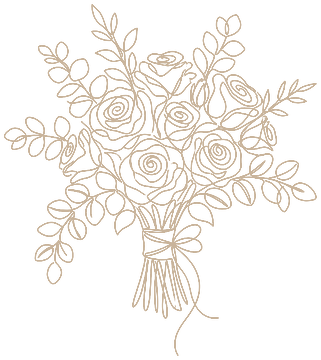
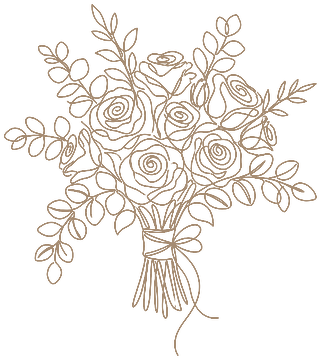
The Day: deeper shared tone for the drawings, carriage left pale

diff --git a/the-day.html b/the-day.html
@@ -9,7 +9,7 @@
 <link rel="preconnect" href="https://fonts.googleapis.com" />
 <link rel="preconnect" href="https://fonts.gstatic.com" crossorigin />
 <link href="https://fonts.googleapis.com/css2?family=Cormorant+Garamond:ital,wght@0,400;0,500;0,600;1,400&family=Jost:wght@300;400;500;600;700&family=Pinyon+Script&family=Playfair+Display:ital,wght@0,500;0,600;1,500&family=Bodoni+Moda:ital,wght@0,500;0,600;1,500&family=Cinzel:wght@500;600&family=Marcellus&family=Prata&display=swap" rel="stylesheet" />
-<link rel="stylesheet" href="style.css?v=53" />
+<link rel="stylesheet" href="style.css?v=54" />
 </head>
 <body>
 
@@ -39,22 +39,22 @@
       <hr class="divider" aria-hidden="true" />
     </div>
     <div class="timeline">
-      <div class="tl-item tl-item--art"><div class="tl-text"><div class="tl-time">11:45 am</div><div class="tl-label">Guests Arrive</div><div class="tl-note">Welcome, and a &lsquo;getting comfy&rsquo; half hour</div></div><div class="tl-art tl-art--r"><img src="Photos/itinerary/guests.png?v=11" alt="" loading="lazy"></div></div>
-      <div class="tl-item tl-item--art"><div class="tl-art tl-art--l"><img src="Photos/itinerary/seated.png?v=11" alt="" loading="lazy"></div><div class="tl-text"><div class="tl-time">12:15 pm</div><div class="tl-label">Please Be Seated</div><div class="tl-note">Guests are seated while the registrar speaks with the couple</div></div></div>
-      <div class="tl-item tl-item--art"><div class="tl-text"><div class="tl-time">12:30 pm</div><div class="tl-label">The Ceremony</div><div class="tl-note">The main event &ndash; it&rsquo;s time to make it official!</div></div><div class="tl-art tl-art--r"><img src="Photos/itinerary/ceremony.png?v=11" alt="" loading="lazy"></div></div>
-      <div class="tl-item tl-item--art"><div class="tl-art tl-art--l"><img src="Photos/itinerary/camera.png?v=11" alt="" loading="lazy"></div><div class="tl-text"><div class="tl-time">1:00 pm</div><div class="tl-label">Drinks Reception &amp; Photographs</div><div class="tl-note"></div></div></div>
-      <div class="tl-item tl-item--art"><div class="tl-text"><div class="tl-time">1:15 pm</div><div class="tl-label">Canap&eacute;s</div><div class="tl-note">Served during the drinks reception</div></div><div class="tl-art tl-art--r"><img src="Photos/itinerary/canapes.png?v=11" alt="" loading="lazy"></div></div>
-      <div class="tl-item tl-item--art"><div class="tl-art tl-art--l"><img src="Photos/itinerary/tower.png?v=11" alt="" loading="lazy"></div><div class="tl-text"><div class="tl-time">2:30 pm</div><div class="tl-label">Into the Ballroom</div><div class="tl-note">Guests are moved through to the Ballroom</div></div></div>
-      <div class="tl-item tl-item--art"><div class="tl-text"><div class="tl-time">2:45 pm</div><div class="tl-label">The Happy Couple</div><div class="tl-note">The Master of Ceremonies announces Jessica &amp; Matthew</div></div><div class="tl-art tl-art--r"><img src="Photos/itinerary/couple.png?v=11" alt="" loading="lazy"></div></div>
-      <div class="tl-item tl-item--art"><div class="tl-art tl-art--l"><img src="Photos/itinerary/toast.png?v=11" alt="" loading="lazy"></div><div class="tl-text"><div class="tl-time">3:00 pm</div><div class="tl-label">Speeches &amp; Toast</div><div class="tl-note"></div></div></div>
-      <div class="tl-item tl-item--art"><div class="tl-text"><div class="tl-time">3:30 pm</div><div class="tl-label">Wedding Breakfast</div><div class="tl-note">The wedding breakfast is served</div></div><div class="tl-art tl-art--r"><img src="Photos/itinerary/breakfast.png?v=11" alt="" loading="lazy"></div></div>
-      <div class="tl-item tl-item--art"><div class="tl-art tl-art--l"><img src="Photos/itinerary/cocktail.png?v=11" alt="" loading="lazy"></div><div class="tl-text"><div class="tl-time">5:30 pm</div><div class="tl-label">Refreshment Hour</div><div class="tl-note">An hour of refreshment time before we meet back for the evening</div></div></div>
-      <div class="tl-item tl-item--art"><div class="tl-text"><div class="tl-time">6:30 pm</div><div class="tl-label">Evening Guests Arrive</div><div class="tl-note">Evening guests arrive and the cake is cut</div></div><div class="tl-art tl-art--r"><img src="Photos/itinerary/cake.png?v=11" alt="" loading="lazy"></div></div>
-      <div class="tl-item tl-item--art"><div class="tl-art tl-art--l"><img src="Photos/itinerary/dance.png?v=11" alt="" loading="lazy"></div><div class="tl-text"><div class="tl-time">7:00 pm</div><div class="tl-label">First Dance</div><div class="tl-note"></div></div></div>
-      <div class="tl-item tl-item--art"><div class="tl-text"><div class="tl-time">8:30 pm</div><div class="tl-label">Evening Food</div><div class="tl-note">Evening food is served</div></div><div class="tl-art tl-art--r"><img src="Photos/itinerary/dinner.png?v=11" alt="" loading="lazy"></div></div>
-      <div class="tl-item tl-item--art"><div class="tl-art tl-art--l"><img src="Photos/itinerary/taxi.png?v=11" alt="" loading="lazy"></div><div class="tl-text"><div class="tl-time">12:00 am</div><div class="tl-label">Farewell</div><div class="tl-note">The bar closes, the music finishes and guests depart</div></div></div>
+      <div class="tl-item tl-item--art"><div class="tl-text"><div class="tl-time">11:45 am</div><div class="tl-label">Guests Arrive</div><div class="tl-note">Welcome, and a &lsquo;getting comfy&rsquo; half hour</div></div><div class="tl-art tl-art--r"><img src="Photos/itinerary/guests.png?v=12" alt="" loading="lazy"></div></div>
+      <div class="tl-item tl-item--art"><div class="tl-art tl-art--l"><img src="Photos/itinerary/seated.png?v=12" alt="" loading="lazy"></div><div class="tl-text"><div class="tl-time">12:15 pm</div><div class="tl-label">Please Be Seated</div><div class="tl-note">Guests are seated while the registrar speaks with the couple</div></div></div>
+      <div class="tl-item tl-item--art"><div class="tl-text"><div class="tl-time">12:30 pm</div><div class="tl-label">The Ceremony</div><div class="tl-note">The main event &ndash; it&rsquo;s time to make it official!</div></div><div class="tl-art tl-art--r"><img src="Photos/itinerary/ceremony.png?v=12" alt="" loading="lazy"></div></div>
+      <div class="tl-item tl-item--art"><div class="tl-art tl-art--l"><img src="Photos/itinerary/camera.png?v=12" alt="" loading="lazy"></div><div class="tl-text"><div class="tl-time">1:00 pm</div><div class="tl-label">Drinks Reception &amp; Photographs</div><div class="tl-note"></div></div></div>
+      <div class="tl-item tl-item--art"><div class="tl-text"><div class="tl-time">1:15 pm</div><div class="tl-label">Canap&eacute;s</div><div class="tl-note">Served during the drinks reception</div></div><div class="tl-art tl-art--r"><img src="Photos/itinerary/canapes.png?v=12" alt="" loading="lazy"></div></div>
+      <div class="tl-item tl-item--art"><div class="tl-art tl-art--l"><img src="Photos/itinerary/tower.png?v=12" alt="" loading="lazy"></div><div class="tl-text"><div class="tl-time">2:30 pm</div><div class="tl-label">Into the Ballroom</div><div class="tl-note">Guests are moved through to the Ballroom</div></div></div>
+      <div class="tl-item tl-item--art"><div class="tl-text"><div class="tl-time">2:45 pm</div><div class="tl-label">The Happy Couple</div><div class="tl-note">The Master of Ceremonies announces Jessica &amp; Matthew</div></div><div class="tl-art tl-art--r"><img src="Photos/itinerary/couple.png?v=12" alt="" loading="lazy"></div></div>
+      <div class="tl-item tl-item--art"><div class="tl-art tl-art--l"><img src="Photos/itinerary/toast.png?v=12" alt="" loading="lazy"></div><div class="tl-text"><div class="tl-time">3:00 pm</div><div class="tl-label">Speeches &amp; Toast</div><div class="tl-note"></div></div></div>
+      <div class="tl-item tl-item--art"><div class="tl-text"><div class="tl-time">3:30 pm</div><div class="tl-label">Wedding Breakfast</div><div class="tl-note">The wedding breakfast is served</div></div><div class="tl-art tl-art--r"><img src="Photos/itinerary/breakfast.png?v=12" alt="" loading="lazy"></div></div>
+      <div class="tl-item tl-item--art"><div class="tl-art tl-art--l"><img src="Photos/itinerary/cocktail.png?v=12" alt="" loading="lazy"></div><div class="tl-text"><div class="tl-time">5:30 pm</div><div class="tl-label">Refreshment Hour</div><div class="tl-note">An hour of refreshment time before we meet back for the evening</div></div></div>
+      <div class="tl-item tl-item--art"><div class="tl-text"><div class="tl-time">6:30 pm</div><div class="tl-label">Evening Guests Arrive</div><div class="tl-note">Evening guests arrive and the cake is cut</div></div><div class="tl-art tl-art--r"><img src="Photos/itinerary/cake.png?v=12" alt="" loading="lazy"></div></div>
+      <div class="tl-item tl-item--art"><div class="tl-art tl-art--l"><img src="Photos/itinerary/dance.png?v=12" alt="" loading="lazy"></div><div class="tl-text"><div class="tl-time">7:00 pm</div><div class="tl-label">First Dance</div><div class="tl-note"></div></div></div>
+      <div class="tl-item tl-item--art"><div class="tl-text"><div class="tl-time">8:30 pm</div><div class="tl-label">Evening Food</div><div class="tl-note">Evening food is served</div></div><div class="tl-art tl-art--r"><img src="Photos/itinerary/dinner.png?v=12" alt="" loading="lazy"></div></div>
+      <div class="tl-item tl-item--art"><div class="tl-art tl-art--l"><img src="Photos/itinerary/taxi.png?v=12" alt="" loading="lazy"></div><div class="tl-text"><div class="tl-time">12:00 am</div><div class="tl-label">Farewell</div><div class="tl-note">The bar closes, the music finishes and guests depart</div></div></div>
     </div>
-    <div class="day-end" aria-hidden="true"><img src="Photos/itinerary/farewell.png?v=11" alt="" loading="lazy"></div>
+    <div class="day-end" aria-hidden="true"><img src="Photos/itinerary/farewell.png?v=12" alt="" loading="lazy"></div>
   </section>
 
   </main>

diff --git a/index.html b/index.html
@@ -19,7 +19,7 @@
 <link rel="preconnect" href="https://fonts.googleapis.com" />
 <link rel="preconnect" href="https://fonts.gstatic.com" crossorigin />
 <link href="https://fonts.googleapis.com/css2?family=Cormorant+Garamond:ital,wght@0,400;0,500;0,600;1,400&family=Jost:wght@300;400;500;600;700&family=Pinyon+Script&family=Playfair+Display:ital,wght@0,500;0,600;1,500&family=Bodoni+Moda:ital,wght@0,500;0,600;1,500&family=Cinzel:wght@500;600&family=Marcellus&family=Prata&display=swap" rel="stylesheet" />
-<link rel="stylesheet" href="style.css?v=53" />
+<link rel="stylesheet" href="style.css?v=54" />
 </head>
 <body>
 

diff --git a/faq.html b/faq.html
@@ -9,7 +9,7 @@
 <link rel="preconnect" href="https://fonts.googleapis.com" />
 <link rel="preconnect" href="https://fonts.gstatic.com" crossorigin />
 <link href="https://fonts.googleapis.com/css2?family=Cormorant+Garamond:ital,wght@0,400;0,500;0,600;1,400&family=Jost:wght@300;400;500;600;700&family=Pinyon+Script&family=Playfair+Display:ital,wght@0,500;0,600;1,500&family=Bodoni+Moda:ital,wght@0,500;0,600;1,500&family=Cinzel:wght@500;600&family=Marcellus&family=Prata&display=swap" rel="stylesheet" />
-<link rel="stylesheet" href="style.css?v=53" />
+<link rel="stylesheet" href="style.css?v=54" />
 </head>
 <body>
 

diff --git a/registry.html b/registry.html
@@ -9,7 +9,7 @@
 <link rel="preconnect" href="https://fonts.googleapis.com" />
 <link rel="preconnect" href="https://fonts.gstatic.com" crossorigin />
 <link href="https://fonts.googleapis.com/css2?family=Cormorant+Garamond:ital,wght@0,400;0,500;0,600;1,400&family=Jost:wght@300;400;500;600;700&family=Pinyon+Script&family=Playfair+Display:ital,wght@0,500;0,600;1,500&family=Bodoni+Moda:ital,wght@0,500;0,600;1,500&family=Cinzel:wght@500;600&family=Marcellus&family=Prata&display=swap" rel="stylesheet" />
-<link rel="stylesheet" href="style.css?v=53" />
+<link rel="stylesheet" href="style.css?v=54" />
 </head>
 <body>
 

diff --git a/rsvp.html b/rsvp.html
@@ -9,7 +9,7 @@
 <link rel="preconnect" href="https://fonts.googleapis.com" />
 <link rel="preconnect" href="https://fonts.gstatic.com" crossorigin />
 <link href="https://fonts.googleapis.com/css2?family=Cormorant+Garamond:ital,wght@0,400;0,500;0,600;1,400&family=Jost:wght@300;400;500;600;700&family=Pinyon+Script&family=Playfair+Display:ital,wght@0,500;0,600;1,500&family=Bodoni+Moda:ital,wght@0,500;0,600;1,500&family=Cinzel:wght@500;600&family=Marcellus&family=Prata&display=swap" rel="stylesheet" />
-<link rel="stylesheet" href="style.css?v=53" />
+<link rel="stylesheet" href="style.css?v=54" />
 </head>
 <body>
 

diff --git a/things-to-do.html b/things-to-do.html
@@ -9,7 +9,7 @@
 <link rel="preconnect" href="https://fonts.googleapis.com" />
 <link rel="preconnect" href="https://fonts.gstatic.com" crossorigin />
 <link href="https://fonts.googleapis.com/css2?family=Cormorant+Garamond:ital,wght@0,400;0,500;0,600;1,400&family=Jost:wght@300;400;500;600;700&family=Pinyon+Script&family=Playfair+Display:ital,wght@0,500;0,600;1,500&family=Bodoni+Moda:ital,wght@0,500;0,600;1,500&family=Cinzel:wght@500;600&family=Marcellus&family=Prata&display=swap" rel="stylesheet" />
-<link rel="stylesheet" href="style.css?v=53" />
+<link rel="stylesheet" href="style.css?v=54" />
 </head>
 <body>
 

diff --git a/travel.html b/travel.html
@@ -9,7 +9,7 @@
 <link rel="preconnect" href="https://fonts.googleapis.com" />
 <link rel="preconnect" href="https://fonts.gstatic.com" crossorigin />
 <link href="https://fonts.googleapis.com/css2?family=Cormorant+Garamond:ital,wght@0,400;0,500;0,600;1,400&family=Jost:wght@300;400;500;600;700&family=Pinyon+Script&family=Playfair+Display:ital,wght@0,500;0,600;1,500&family=Bodoni+Moda:ital,wght@0,500;0,600;1,500&family=Cinzel:wght@500;600&family=Marcellus&family=Prata&display=swap" rel="stylesheet" />
-<link rel="stylesheet" href="style.css?v=53" />
+<link rel="stylesheet" href="style.css?v=54" />
 </head>
 <body>
 

diff --git a/wedding-party.html b/wedding-party.html
@@ -9,7 +9,7 @@
 <link rel="preconnect" href="https://fonts.googleapis.com" />
 <link rel="preconnect" href="https://fonts.gstatic.com" crossorigin />
 <link href="https://fonts.googleapis.com/css2?family=Cormorant+Garamond:ital,wght@0,400;0,500;0,600;1,400&family=Jost:wght@300;400;500;600;700&family=Pinyon+Script&family=Playfair+Display:ital,wght@0,500;0,600;1,500&family=Bodoni+Moda:ital,wght@0,500;0,600;1,500&family=Cinzel:wght@500;600&family=Marcellus&family=Prata&display=swap" rel="stylesheet" />
-<link rel="stylesheet" href="style.css?v=53" />
+<link rel="stylesheet" href="style.css?v=54" />
 </head>
 <body>
 
